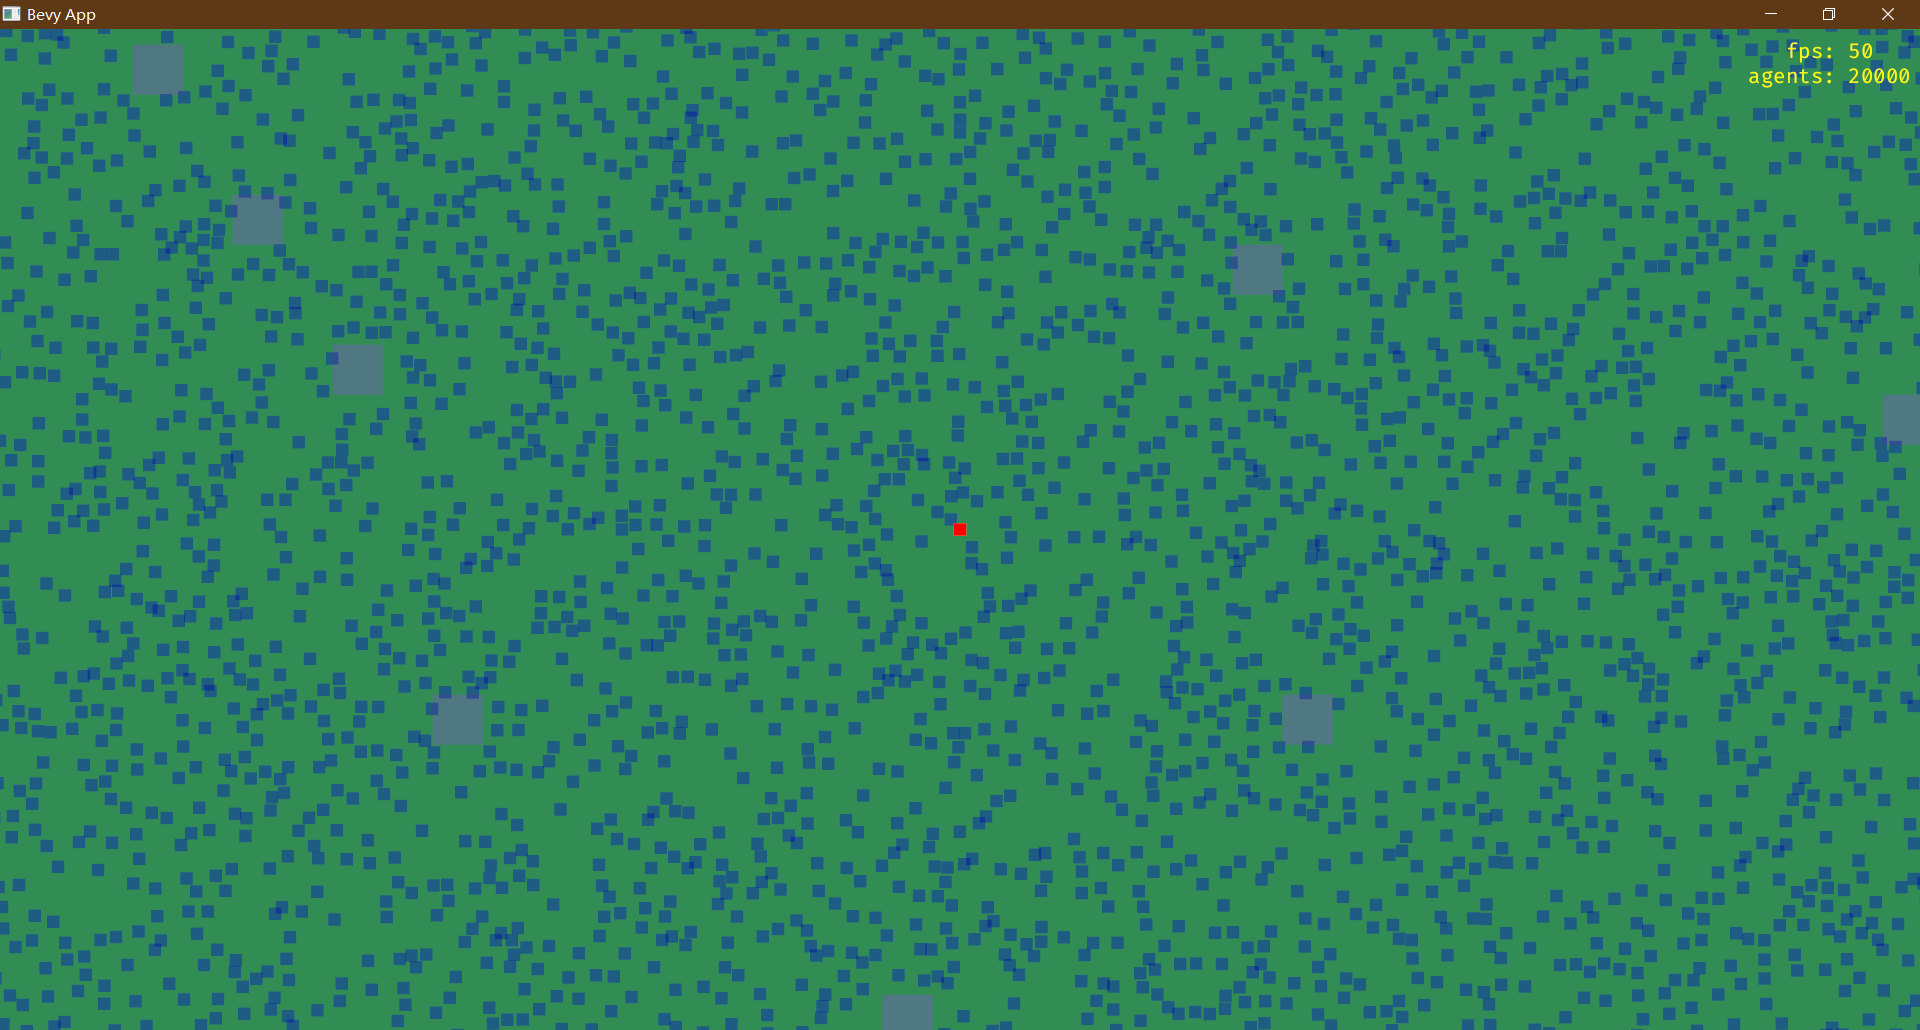
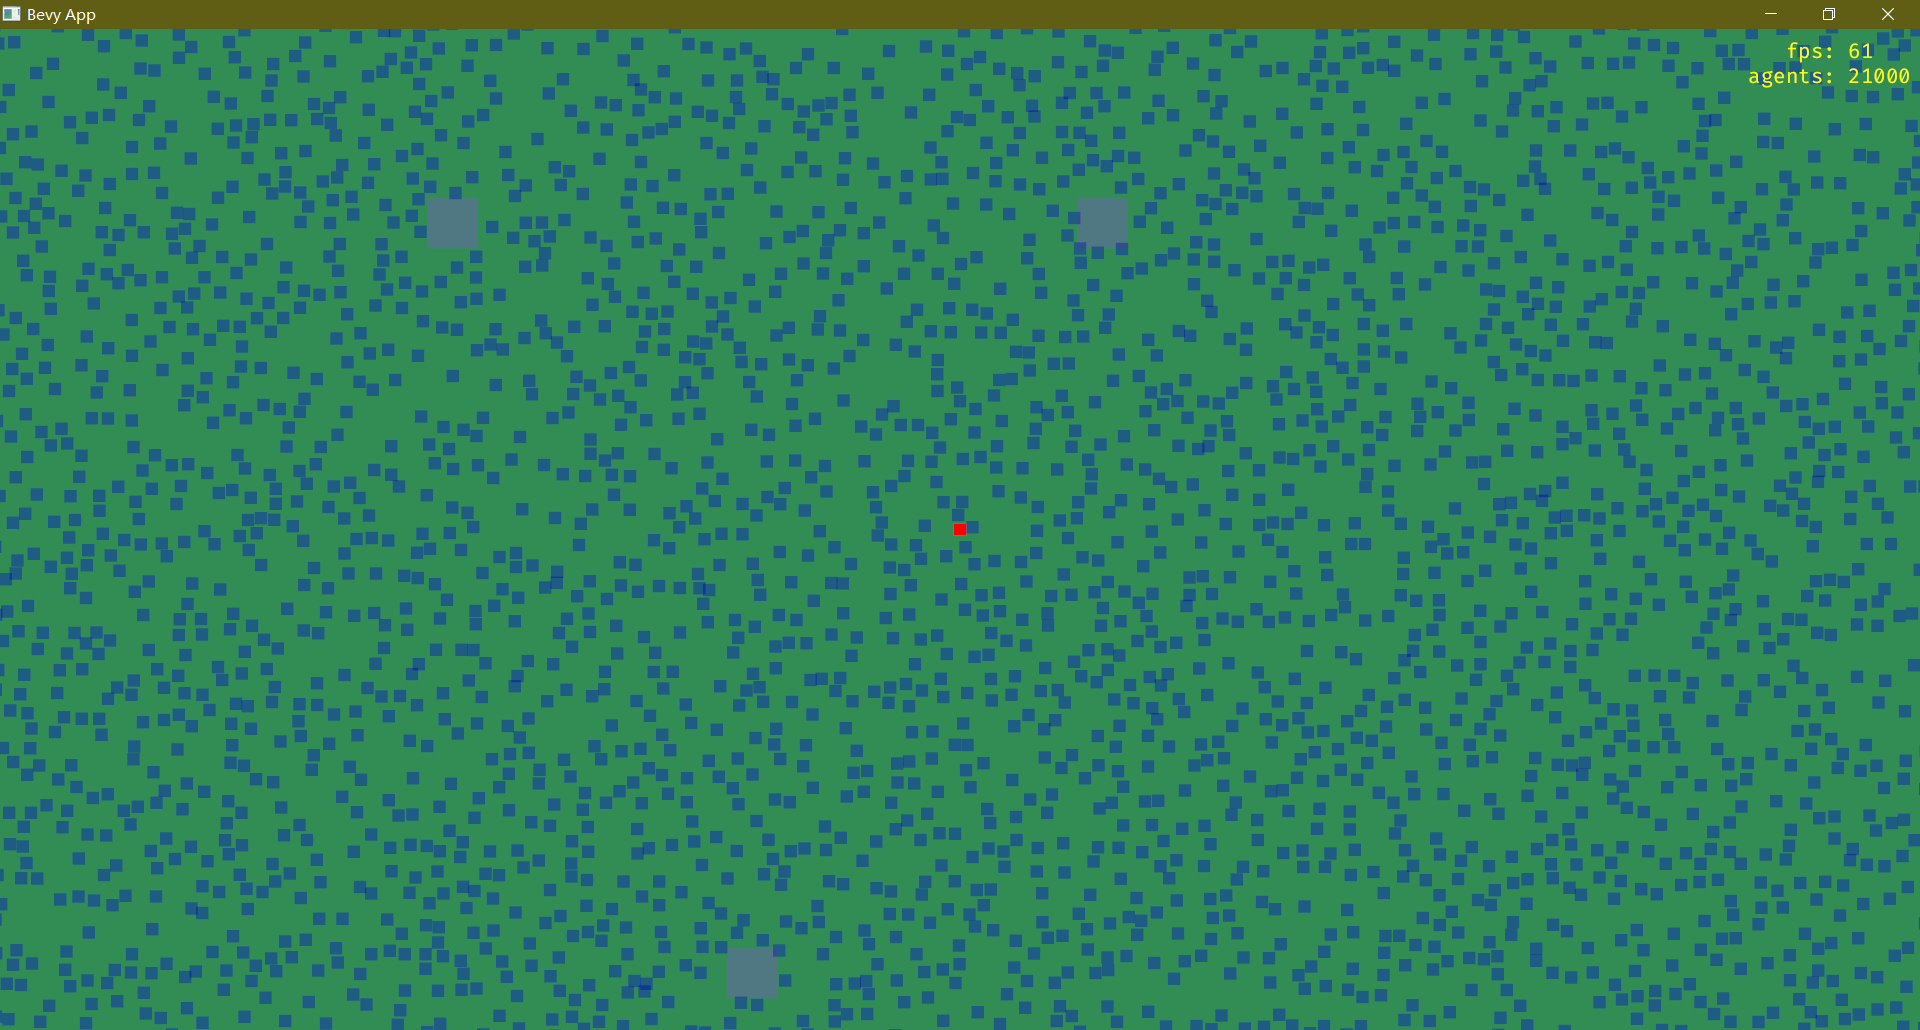
[ugrid] update screenshot.

diff --git a/examples/bevy_mods/mod.rs b/examples/bevy_mods/mod.rs
@@ -45,7 +45,7 @@ const MAX_DURATION:f32 = 8.0;
 const MIN_HALF_SIZE:i16 = 2;
 const MAX_HALF_SIZE:i16 = 10;
 
-const AGENTS: u32 = 20000;
+const AGENTS: u32 = 21000;
 
 pub const MAIN_ID: u32 = 0;
 
